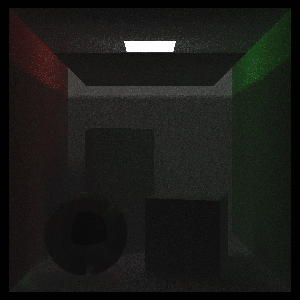
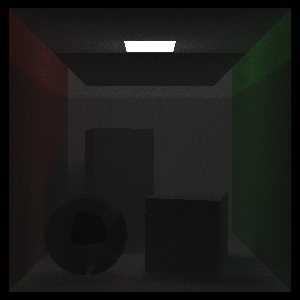
Work aroun synchronization

diff --git a/header-files/World.h b/header-files/World.h
@@ -15,6 +15,10 @@
 #include "TriangleMesh.h"
 #include "DirectionalPointLight.h"
 
+std::vector<Light*> goodPath;
+std::vector<std::vector<Light*>> pathsFound;
+double energy = 0;
+
 
 bool inShadow(Ray ray, std::vector<Object*> objects, float lightDistance, HitInfo &info)
 {
@@ -138,7 +142,7 @@ void traceLight(const Ray &ray, std::vector<Object*> objects, std::shared_ptr<Li
     }
 }
 
-RGBColor trace(const Ray &ray, std::vector<Object*> objects, std::vector<Light*> lights, Ambient ambient, int depth, Vec3D lightX, Vec3D lightNormal, Vec3D lightZ)
+RGBColor trace(const Ray &ray, std::vector<Object*> objects, std::vector<Light*> lights, Ambient ambient, int depth, Vec3D lightX, Vec3D lightNormal, Vec3D lightZ, int step)
 {
     double t = infinity;
     double tmin = infinity;
@@ -147,6 +151,10 @@ RGBColor trace(const Ray &ray, std::vector<Object*> objects, std::vector<Light*>
     std::shared_ptr<HitInfo> hInfo(new HitInfo());
     RGBColor color, objectColor, flatColor, difuseColor, specularColor, reflectiveColor, transparentColor;
 
+    if (step == 1) {
+        goodPath = {};
+        energy = 0;
+    }
     if (depth == 0) {
         return RGBColor(0, 0, 0);
     }
@@ -225,7 +233,7 @@ RGBColor trace(const Ray &ray, std::vector<Object*> objects, std::vector<Light*>
         lightPath.push_back(new PointLight((*l).getPos(), (*copyL).getColor(), 1, 0));
         traceLight(Ray((*l).getPos(), randomLightDirection), objects, copyL, ambient, ambient.depth, &lightPath);
 
-        if (l) l = nullptr;
+        // if (l) l = nullptr;
 
         int successfulPaths = 0;
         bool pathFound = false;
@@ -247,30 +255,26 @@ RGBColor trace(const Ray &ray, std::vector<Object*> objects, std::vector<Light*>
                              
                 } else {
                     if (hInfo->transparent) {
-                       resultingColor = resultingColor + ((objectColor ^ trace(Ray(hInfo->hit_location, hInfo->toLight), objects, lights, ambient, depth - 1, lightX, lightNormal, lightZ))/255.0)*std::max(hInfo->normal*hInfo->toLight, 0.0);
+                       resultingColor = resultingColor + ((objectColor ^ trace(Ray(hInfo->hit_location, hInfo->toLight), objects, lights, ambient, depth - 1, lightX, lightNormal, lightZ, step))/255.0)*std::max(hInfo->normal*hInfo->toLight, 0.0);
                     }
                 }
             }
         }
 
-        /*
         if (pathFound) {
             resultingColor = resultingColor/(double)successfulPaths;
+            // pathsFound->push_back(lightPath);
             if (resultingColor.r + resultingColor.g + resultingColor.b > 70) {
-                (*energy) = resultingColor.r + resultingColor.g + resultingColor.b;
-                (*goodPath) = lightPath;
-            } else {
-                for (auto lightPoint : lightPath) {
-                    delete lightPoint;
-                }
+                energy = resultingColor.r + resultingColor.g + resultingColor.b;
+                goodPath = lightPath;
             }
         }
 
-        if (goodPath->size() > 0 && (*energy) > (resultingColor.r + resultingColor.g + resultingColor.b)) {
+        if (goodPath.size() > 0 && energy > (resultingColor.r + resultingColor.g + resultingColor.b)) {
             resultingColor = RGBColor();
             successfulPaths = 0;
             pathFound = false;
-            for (auto pathLight : (*goodPath)) {
+            for (auto pathLight : goodPath) {
                 auto theColor = pathLight->getColor();
                 auto whereIsTheLight = pathLight->getPos();
                 auto lightDistance = Vec3D::norma(pathLight->getPos() - hInfo->hit_location);
@@ -288,32 +292,28 @@ RGBColor trace(const Ray &ray, std::vector<Object*> objects, std::vector<Light*>
                                        
                     } else {
                         if (hInfo->transparent) {
-                            resultingColor = resultingColor + ((objectColor ^ trace(Ray(hInfo->hit_location, hInfo->toLight), objects, camera, lights, ambient, depth - 1, lightX, lightNormal, lightZ, energy, goodPath))/255.0)*std::max(hInfo->normal*hInfo->toLight, 0.0);
+                            resultingColor = resultingColor + ((objectColor ^ trace(Ray(hInfo->hit_location, hInfo->toLight), objects, lights, ambient, depth - 1, lightX, lightNormal, lightZ, step))/255.0)*std::max(hInfo->normal*hInfo->toLight, 0.0);
                         }
                     }
                 }
             }
         }
-        */
 
         if (pathFound) {
             resultingColor = resultingColor/(double)successfulPaths;
-            for (auto points : lightPath) {
-                delete points;
-            } 
         }
 
         flatColor = (ambient.color*ka + resultingColor*kd)/2.0;
         color = flatColor;
 
         if (kd > 0) {
-            color = (color + trace(Ray(hInfo->hit_location, difuseDirection), objects, lights, ambient, depth - 1, lightX, lightNormal, lightZ))/2.0;
+            color = (color + trace(Ray(hInfo->hit_location, difuseDirection), objects, lights, ambient, depth - 1, lightX, lightNormal, lightZ, step))/2.0;
         }
         if (ks > 0) {
-            color = (color + trace(Ray(hitPoint, reflexDirection), objects, lights, ambient, depth - 1, lightX, lightNormal, lightZ))*(ks/2.0);
+            color = (color + trace(Ray(hitPoint, reflexDirection), objects, lights, ambient, depth - 1, lightX, lightNormal, lightZ, step))*(ks/2.0);
         }
         if (kr > 0) {
-            color = (color + trace(Ray(hitPoint, hInfo->viewerReflex), objects, lights, ambient, depth - 1, lightX, lightNormal, lightZ))*(kr);
+            color = (color + trace(Ray(hitPoint, hInfo->viewerReflex), objects, lights, ambient, depth - 1, lightX, lightNormal, lightZ, step))*(kr);
             color = RGBColor(std::min(color.r, 255.0), std::min(color.g, 255.0), std::min(color.b, 255.0));
         }
         if (kt > 0) { 
@@ -330,7 +330,7 @@ RGBColor trace(const Ray &ray, std::vector<Object*> objects, std::vector<Light*>
             auto cos2 = sqrt(temp);
             hInfo->refraction = hInfo->toCamera*(-1)/eta - (hInfo->normal*(cos2 - cos/eta));
             hitPoint = hitPoint + hInfo->refraction*0.015;
-            color = (color + trace(Ray(hitPoint, hInfo->refraction), objects, lights, ambient, depth - 1, lightX, lightNormal, lightZ))*(kt);
+            color = (color + trace(Ray(hitPoint, hInfo->refraction), objects, lights, ambient, depth - 1, lightX, lightNormal, lightZ, step))*(kt);
             color = RGBColor(std::min(color.r, 255.0), std::min(color.g, 255.0), std::min(color.b, 255.0));
         }
         return color;

diff --git a/header-files/TriangleMesh.h b/header-files/TriangleMesh.h
@@ -51,39 +51,38 @@ class TriangleMesh: public Object {
 
 bool TriangleMesh::rayObjectIntersect(const Ray &ray, double *tmin, std::shared_ptr<HitInfo> info) 
 {
+    std::unique_lock<std::mutex> lock(objectLock);
     double min = infinity;
     auto hit = false, nearerHit = false;
     int hitIndex;
     for (int i = 0; i < triangles.size(); i++)
     {
-        Point3D A, B, C;
+        Point3D A, B, C, pHit;
         A = vertices[triangles[i].x];
         B = vertices[triangles[i].y];
         C = vertices[triangles[i].z]; 
+
         auto tPlaneNormal = (A - B) ^ (A - C);
         if (((ray.direction * (-1)) * tPlaneNormal) <= 0)
         {
             tPlaneNormal = (A - C) ^ (A - B);
         }
-        auto tempMaterial = new Material{
-            RGBColor(), 0, 0, 0, 0, 0, 0, false, 0
-        };
-        std::shared_ptr<Plane> tPlane(new Plane(tPlaneNormal, A, tempMaterial, true));
-        Point3D pHit;
-        if (tPlane->rayObjectIntersect(ray, tmin, info)) // to-do: the intersecion fails when 3 respective coordinates on
+
+        double t = ((A - ray.origin) * tPlaneNormal) / (ray.direction * tPlaneNormal); // intersection with support plane
+        
+        if (t > kEpsilon) // to-do: the intersecion fails when 3 respective coordinates on
         {   // diferent points, equals to 0
+            (*tmin) = t;
             pHit = ray.origin + ray.direction*(*tmin);      
             //|A.x B.x C.x||a|   |X|
             //|A.y B.y C.y||b| = |Y|
             //|A.z B.z C.z||g|   |Z|
             // gamma = 1 - alpha - beta
-            auto det = A.x*((B.y*C.z) - (C.y*B.z))  + B.x*((C.y*A.z) - (A.y*C.z)) + C.x*((A.y*B.z) - (B.y*A.z)); 
+            auto det = A.x*((B.y*C.z) - (C.y*B.z)) + B.x*((C.y*A.z) - (A.y*C.z)) + C.x*((A.y*B.z) - (B.y*A.z)); 
 
-            auto alpha = (pHit.x*((B.y*C.z) - (C.y*B.z))  + B.x*((C.y*pHit.z) - (pHit.y*C.z)) + C.x*((pHit.y*B.z) - (B.y*pHit.z)))/det;
-            // if (alpha > 1 || alpha < 0) return false;
+            auto alpha = (pHit.x*((B.y*C.z) - (C.y*B.z)) + B.x*((C.y*pHit.z) - (pHit.y*C.z)) + C.x*((pHit.y*B.z) - (B.y*pHit.z)))/det;
 
-            auto beta = (A.x*((pHit.y*C.z) - (C.y*pHit.z))  + pHit.x*((C.y*A.z) - (A.y*C.z)) + C.x*((A.y*pHit.z) - (pHit.y*A.z)))/det;
-
+            auto beta = (A.x*((pHit.y*C.z) - (C.y*pHit.z)) + pHit.x*((C.y*A.z) - (A.y*C.z)) + C.x*((A.y*pHit.z) - (pHit.y*A.z)))/det;
             
             if (beta > 0 && alpha > 0 && (beta + alpha < 1))
             {
@@ -97,12 +96,10 @@ bool TriangleMesh::rayObjectIntersect(const Ray &ray, double *tmin, std::shared_
             }
             // auto gama = (A.x*B.y*pHit.z - A.x*pHit.y*B.z - B.x*A.y*pHit.z + B.x*pHit.y*A.z + pHit.x*A.y*B.z - pHit.x*B.y*A.z)/det; 
         }
-        delete tempMaterial;
     }
 
     if (hit)
     {
-        std::unique_lock<std::mutex> lock(objectLock);
         info->hit_object = true;
         (*tmin) = min;
         this->triangleIndice = hitIndex;
@@ -166,6 +163,7 @@ bool TriangleMesh::getCastShadows()
 }
 std::vector<Point3D> TriangleMesh::sampleObject()
 {
+    std::unique_lock<std::mutex> lock(objectLock);
     std::vector<Point3D> samples = {Point3D()};
     return samples;
 }

diff --git a/header-files/ScreenThread.h b/header-files/ScreenThread.h
@@ -34,24 +34,18 @@ class ScreenThread {
                 dir = toPixel + down + (camera.getRight() * (i % camera.getPixelsH())); 
                 
                 RGBColor sumColor;
-                int invalidCount = 0;
-                // std::vector<Light*> goodPath = {};
-                // double energy = 0;
+                int invalidCount = 0; 
 
                 for (uint32_t j = 0; j < camera.getNPaths(); j++) {
-                    auto temp = trace(Ray(camera.getPos(), dir), objects, lights, ambient, ambient.depth, lightX, lightNormal, lightZ);
+                    auto temp = trace(Ray(camera.getPos(), dir), objects, lights, ambient, ambient.depth, lightX, lightNormal, lightZ, camera.getNPaths() - j);
                     bool invalidPath = (std::isnan(temp.r) || std::isnan(temp.g) || std::isnan(temp.b));
                     // sumColor = sumColor + (invalidPath ? RGBColor() : temp);
                     sumColor = sumColor + temp;
                     // if (invalidPath) invalidCount++;
                 }
-
                 
                 sumColor = sumColor/((double)camera.getNPaths() - invalidCount);
                 lock.lock();
-                // for (auto pathPoint : goodPath) {
-                //    delete pathPoint;
-                // }
                 screen->pixels[i] = sumColor;
                 screen->checkPixel();
                 auto progress = (float)screen->getDonePixelsQtn()/(float)screen->getPixelQtn();

diff --git a/header-files/Plane.h b/header-files/Plane.h
@@ -13,6 +13,9 @@ class Plane: public Object
         std::shared_ptr<Material> material;
         bool castShadows;
         Plane(const Vec3D &n, const Point3D &p, Material *m, bool s): normal(n), pp(p), castShadows(s) {
+            this->normal = n;
+            this->pp = p;
+            this->castShadows = s;
             this->material = std::make_shared<Material>((*m));
         }
         ~Plane() {}
@@ -40,9 +43,7 @@ bool Plane::rayObjectIntersect(const Ray &ray, double *tmin, std::shared_ptr<Hit
     if (t > kEpsilon)
     {
         (*tmin) = t;
-        if (!(this->getKd() == 0 && this->getKr() == 0 && this->getKs() == 0)) { // situation where is not beeing used as a subroutine
-            info->hit_object = true;                                         // to the triangle or mesh intersection test
-        }
+        info->hit_object = true;                                      
         return true;
 
     } else {
@@ -95,6 +96,7 @@ bool Plane::getCastShadows()
 }
 std::vector<Point3D> Plane::sampleObject()
 {
+    std::unique_lock<std::mutex> lock(objectLock);
     std::vector<Point3D> samples = {Point3D()};
     return samples;
 }

diff --git a/header-files/TriangleMeshLight.h b/header-files/TriangleMeshLight.h
@@ -38,6 +38,7 @@ class TriangleMeshLight: public Light {
 
 void TriangleMeshLight::sampleLight(void) 
 {
+    std::unique_lock<std::mutex> lock(lightLock);
     auto vertices = this->light_model->vertices;
     auto triangles = this->light_model->triangles;
     for (uint32_t i = 0; i < this->n_samples; i++) {
@@ -104,6 +105,7 @@ std::vector<Point3D> TriangleMeshLight::getMeshControlPoints()
 
 void TriangleMeshLight::setColor(RGBColor &c)
 {
+    std::unique_lock<std::mutex> lock(lightLock);
     this->light_color = c;
 }
 

diff --git a/header-files/DirectionalPointLight.h b/header-files/DirectionalPointLight.h
@@ -66,6 +66,7 @@ bool DirectionalPointLight::isExtense()
 
 void DirectionalPointLight::sampleLight()
 {
+    std::unique_lock<std::mutex> lock(lightLock);
     this->light_samples.push_back(this->lightPos);
 }
 
@@ -86,6 +87,7 @@ std::vector<Point3D> DirectionalPointLight::getMeshControlPoints()
 
 void DirectionalPointLight::setColor(RGBColor &c)
 {
+    std::unique_lock<std::mutex> lock(lightLock);
     this->lightColor = c;
 }
 

diff --git a/header-files/PointLight.h b/header-files/PointLight.h
@@ -63,6 +63,7 @@ bool PointLight::isExtense()
 
 void PointLight::sampleLight()
 {
+    std::unique_lock<std::mutex> lock(lightLock);
     this->light_samples.push_back(this->lightPos);
 }
 
@@ -83,6 +84,7 @@ std::vector<Point3D> PointLight::getMeshControlPoints()
 
 void PointLight::setColor(RGBColor &c)
 {
+    std::unique_lock<std::mutex> lock(lightLock);
     this->lightColor = c;
 }
 

diff --git a/header-files/Sphere.h b/header-files/Sphere.h
@@ -121,6 +121,7 @@ bool Sphere::getCastShadows()
 }
 std::vector<Point3D> Sphere::sampleObject()
 {
+    std::unique_lock<std::mutex> lock(objectLock);
     std::vector<Point3D> samples = {Point3D()};
     return samples;
 }

diff --git a/header-files/Light.h b/header-files/Light.h
@@ -24,6 +24,7 @@ class Light
         bool shadows;
         std::vector<Point3D> light_samples;
         int n_samples;
+        std::mutex lightLock;
 };
 
 
